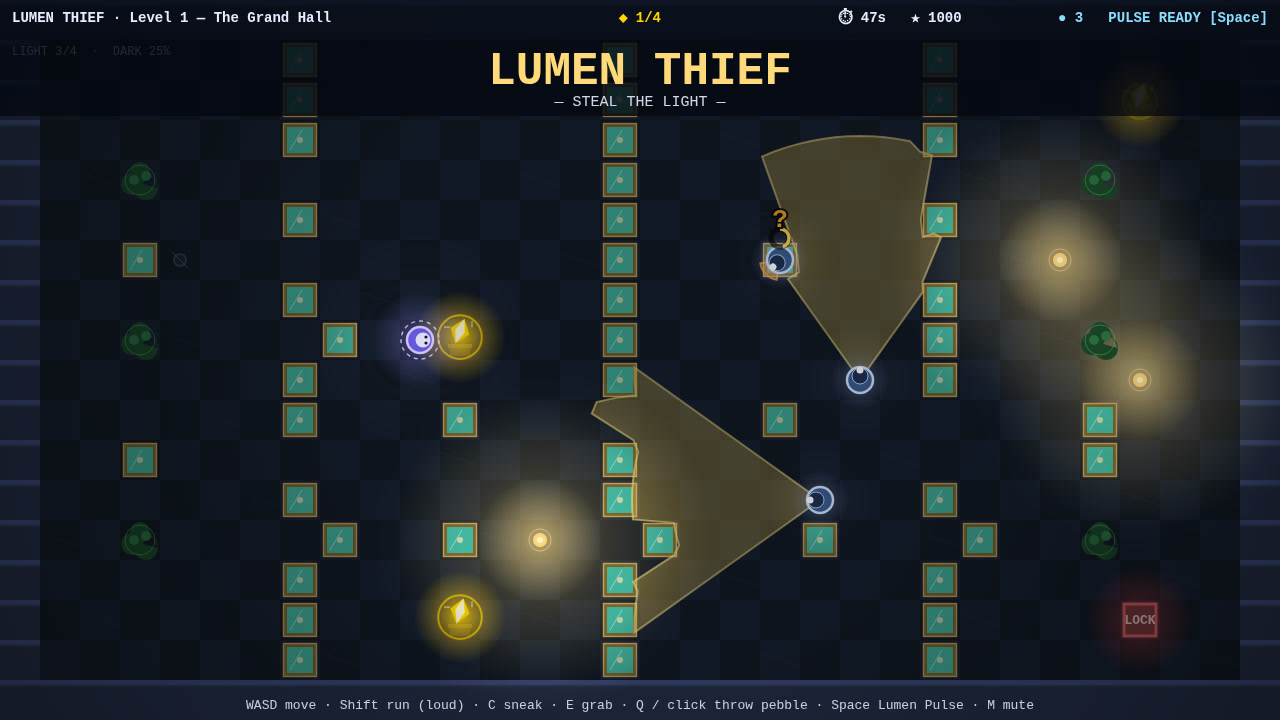
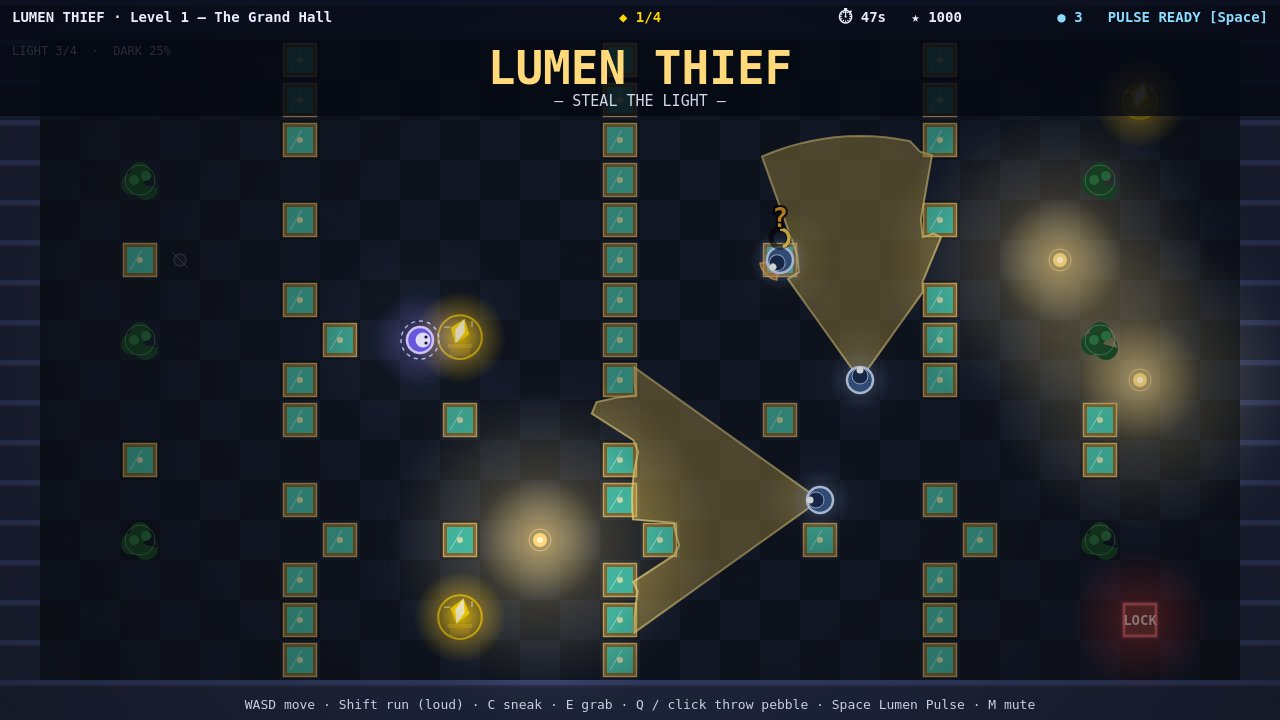
Polish final-heat readability: stronger calm vision cones, brighter LIGHT/DARK HUD, bigger locked-exit halo
- coneCalm alpha 0.34 -> 0.40, calm cone rim 0.6 -> 0.7
- hudDim #8b93b8 -> #a7aed0 (LIGHT/DARK meter readable at thumbnail size)
- locked exit halo radius 55 -> 70, alpha 0.4 -> 0.45, LOCK label 13 -> 14px
- screenshots re-rendered from the game itself (?shot= staging), all < 256 KiB
- visual-only: no game logic, balance, or level data touched

diff --git a/game/src/render.js b/game/src/render.js
@@ -233,17 +233,17 @@ function drawExit(ctx, exit, open, time) {
   const pulse = open ? 0.6 + Math.sin(time * 4) * 0.25 : 0.25;
   // a halo behind the door so it never drowns in the dark — red while
   // locked, green once every artifact is stolen
-  const halo = ctx.createRadialGradient(c.x, c.y, 4, c.x, c.y, open ? 95 : 55);
+  const halo = ctx.createRadialGradient(c.x, c.y, 4, c.x, c.y, open ? 95 : 70);
   if (open) {
     halo.addColorStop(0, 'rgba(57, 217, 138, 0.5)');
     halo.addColorStop(1, 'rgba(57, 217, 138, 0)');
   } else {
-    halo.addColorStop(0, 'rgba(255, 70, 70, 0.4)');
+    halo.addColorStop(0, 'rgba(255, 70, 70, 0.45)');
     halo.addColorStop(1, 'rgba(255, 70, 70, 0)');
   }
   ctx.fillStyle = halo;
   ctx.beginPath();
-  ctx.arc(c.x, c.y, open ? 95 : 55, 0, Math.PI * 2);
+  ctx.arc(c.x, c.y, open ? 95 : 70, 0, Math.PI * 2);
   ctx.fill();
   ctx.fillStyle = open ? COLORS.exitOpen : '#8a3d3d';
   ctx.globalAlpha = 0.95;
@@ -254,7 +254,7 @@ function drawExit(ctx, exit, open, time) {
   ctx.strokeRect(c.x - 16, c.y - 16, 32, 32);
   ctx.lineWidth = 1;
   ctx.fillStyle = open ? '#eafff3' : '#ffd2d2';
-  ctx.font = 'bold 13px monospace';
+  ctx.font = 'bold 14px monospace';
   ctx.textAlign = 'center';
   ctx.textBaseline = 'middle';
   ctx.fillText(open ? 'EXIT' : 'LOCK', c.x, c.y + 1);
@@ -307,7 +307,7 @@ function drawCones(ctx, guards, world) {
     ctx.fill();
     // cone rim — the hard edge that reads at thumbnail size
     ctx.strokeStyle = level === 2 ? 'rgba(255, 80, 80, 0.85)'
-      : level === 1 ? 'rgba(255, 180, 70, 0.75)' : 'rgba(255, 230, 140, 0.6)';
+      : level === 1 ? 'rgba(255, 180, 70, 0.75)' : 'rgba(255, 230, 140, 0.7)';
     ctx.lineWidth = 2;
     ctx.stroke();
     ctx.lineWidth = 1;

diff --git a/game/src/config.js b/game/src/config.js
@@ -60,12 +60,12 @@ export const COLORS = {
   playerCloak: '#6b5ce7',
   guard: '#3a5a8c',
   guardCap: '#1d2f52',
-  coneCalm: 'rgba(255, 214, 90, 0.34)',
+  coneCalm: 'rgba(255, 214, 90, 0.40)',
   coneSuspicious: 'rgba(255, 150, 50, 0.46)',
   coneAlert: 'rgba(255, 60, 60, 0.52)',
   loot: '#ffd700',
   exitLocked: '#5a2e2e',
   exitOpen: '#39d98a',
   hudText: '#e8ecff',
-  hudDim: '#8b93b8',
+  hudDim: '#a7aed0',
 };
